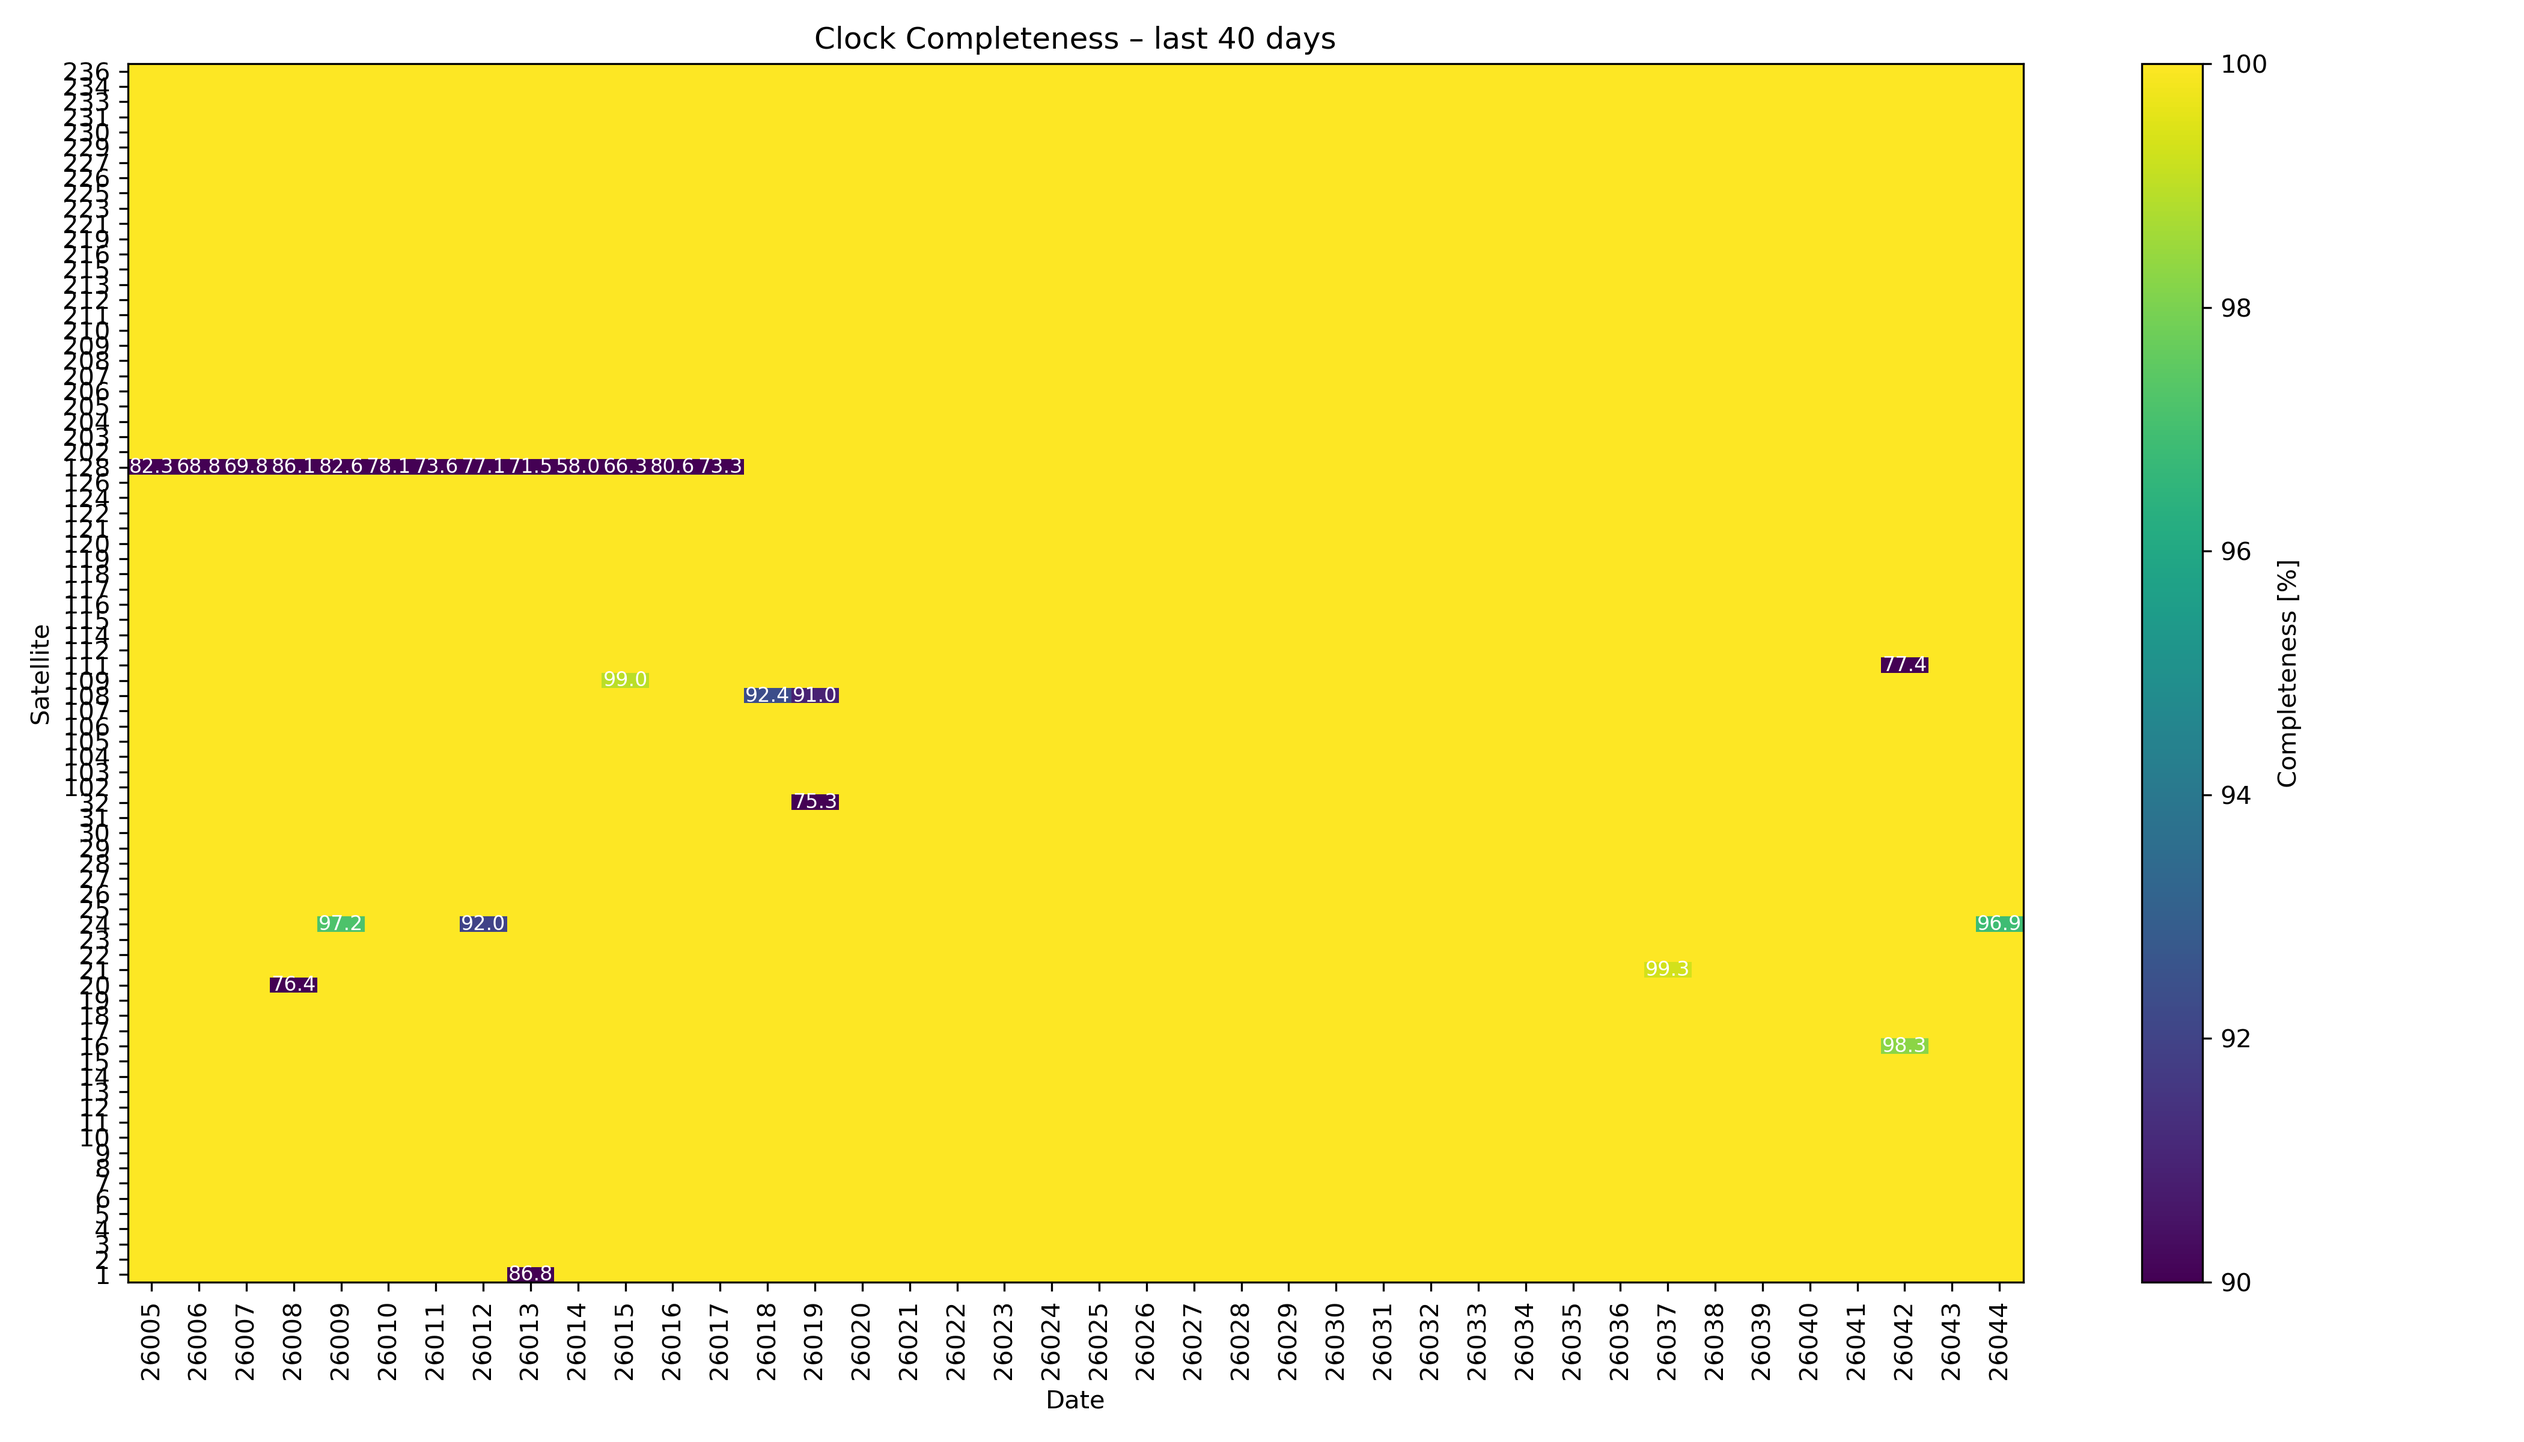
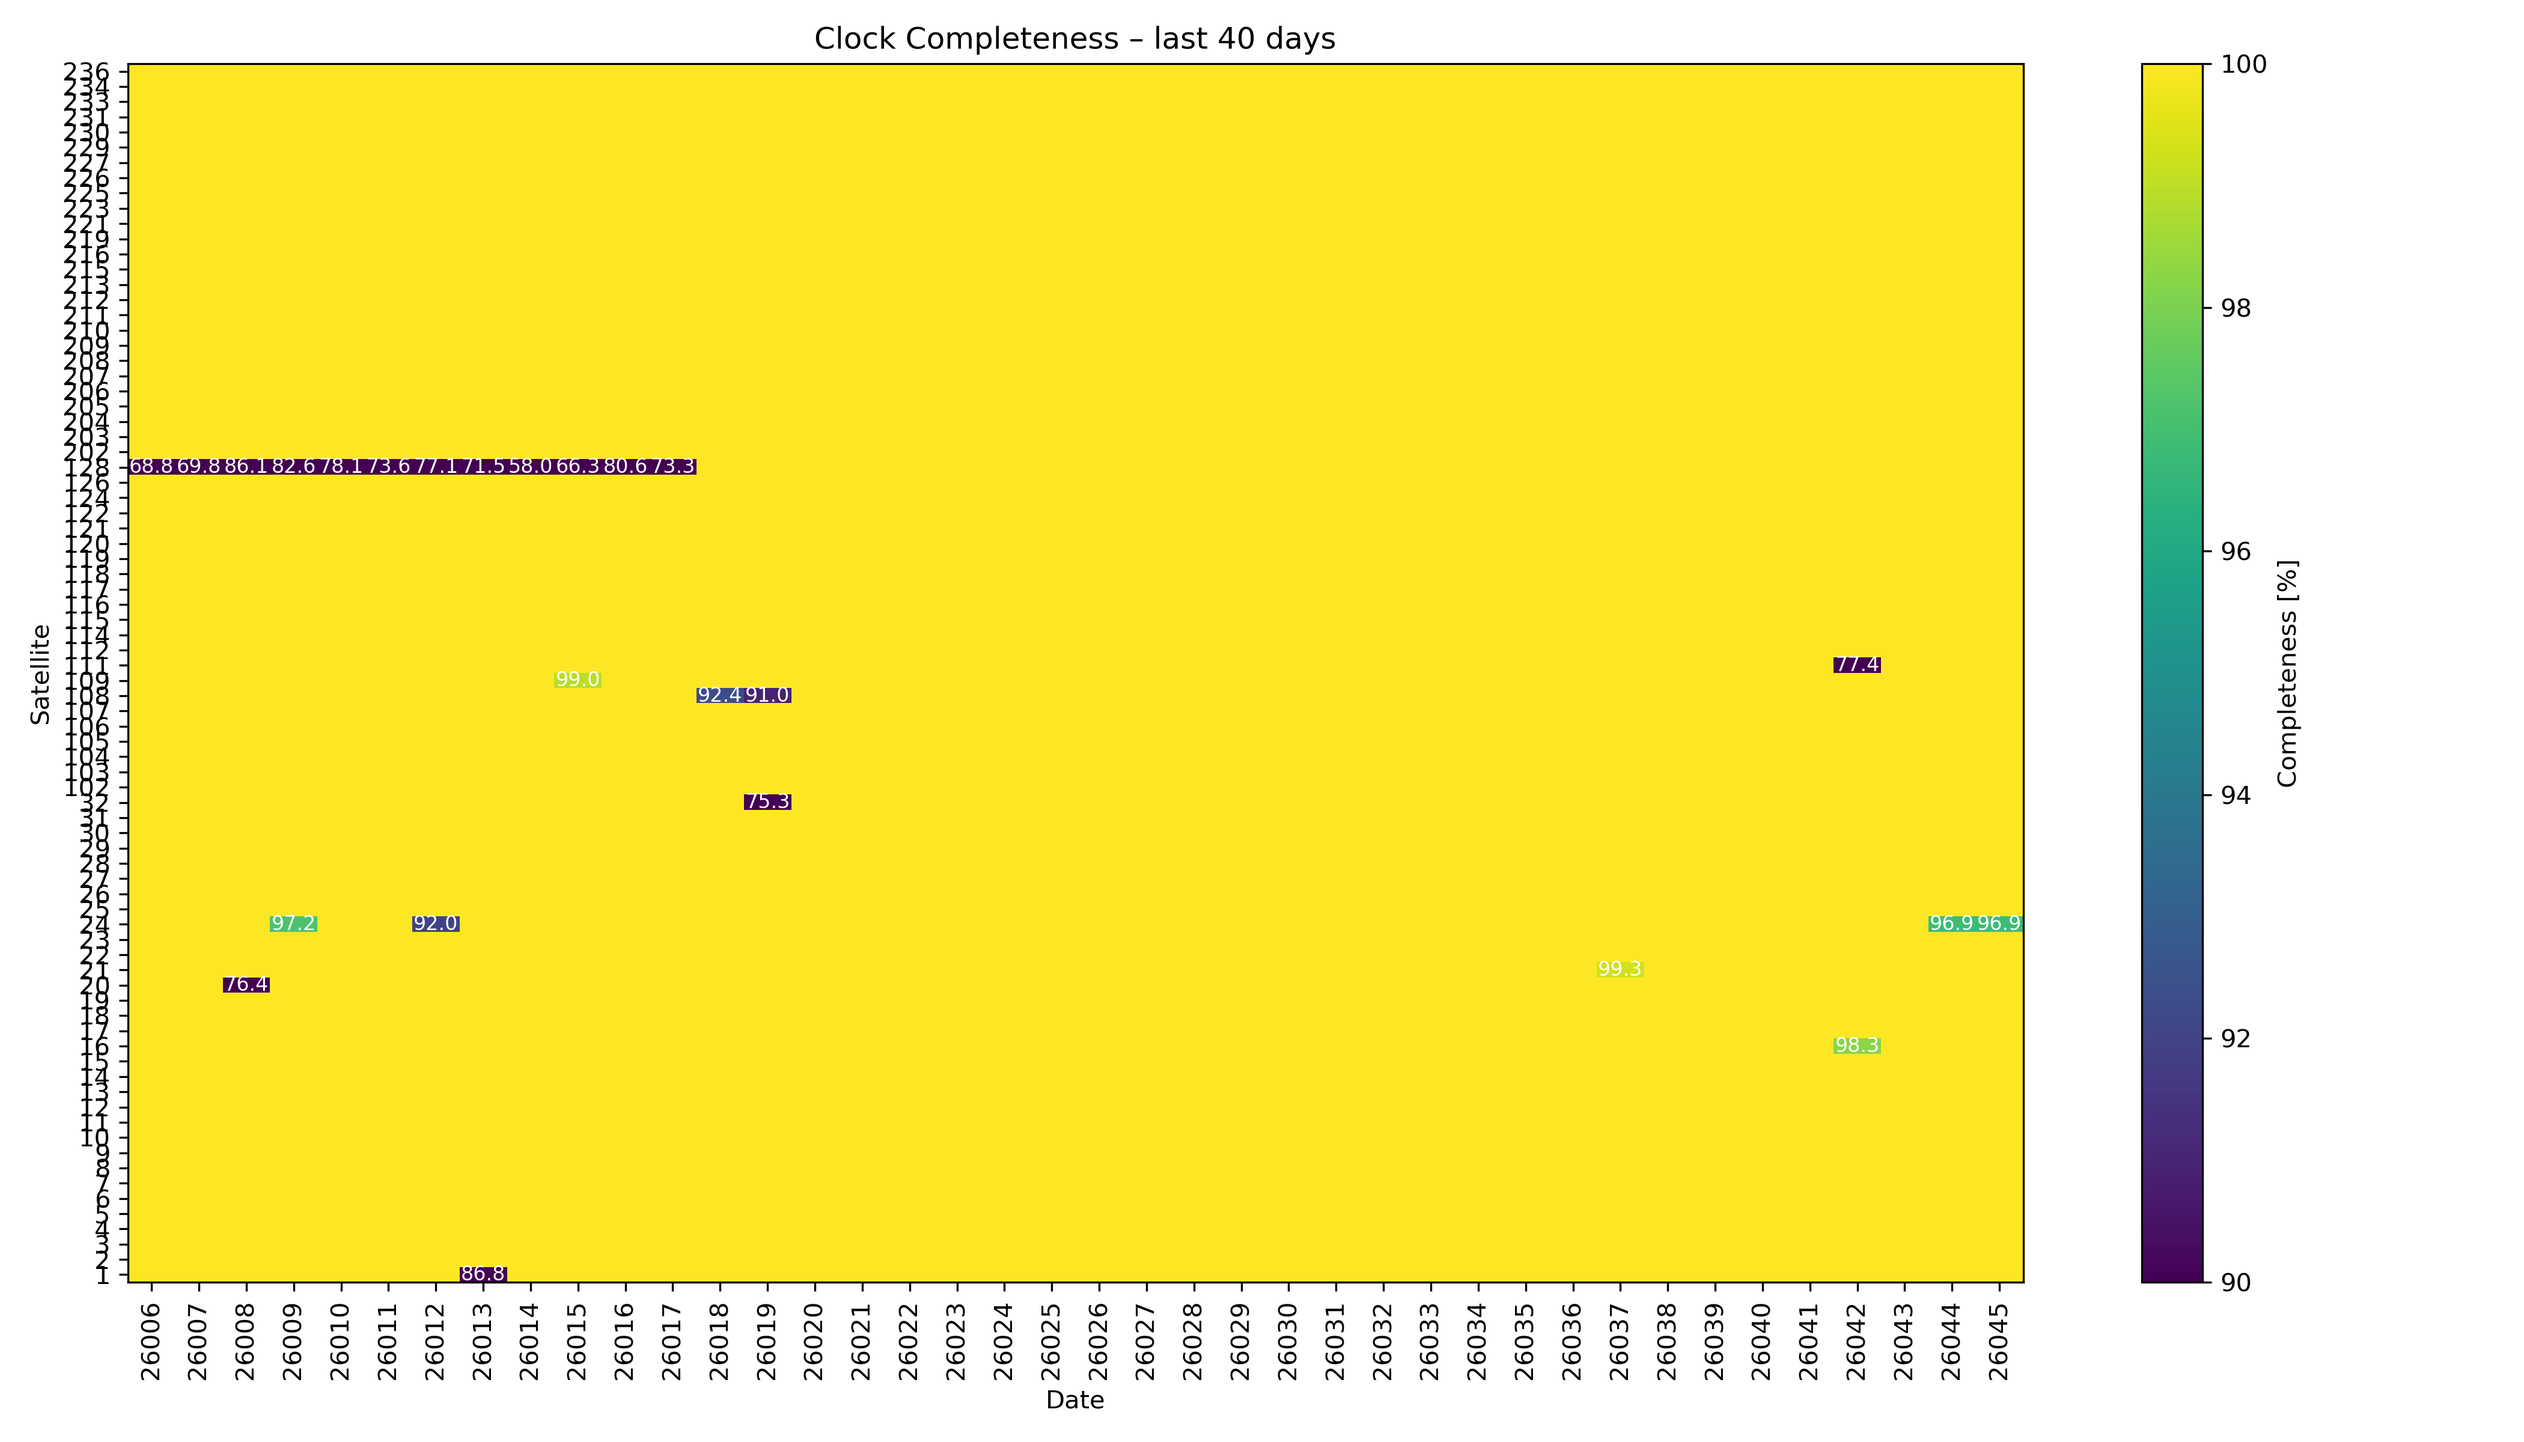
Auto update plots + satclk 2026-02-19 10:54

diff --git a/satclk_list.js b/satclk_list.js
@@ -43,4 +43,5 @@ const satclk_files = [
     "sat_clock_completeness_26042.txt",
     "sat_clock_completeness_26043.txt",
     "sat_clock_completeness_26044.txt",
+    "sat_clock_completeness_26045.txt",
 ];
